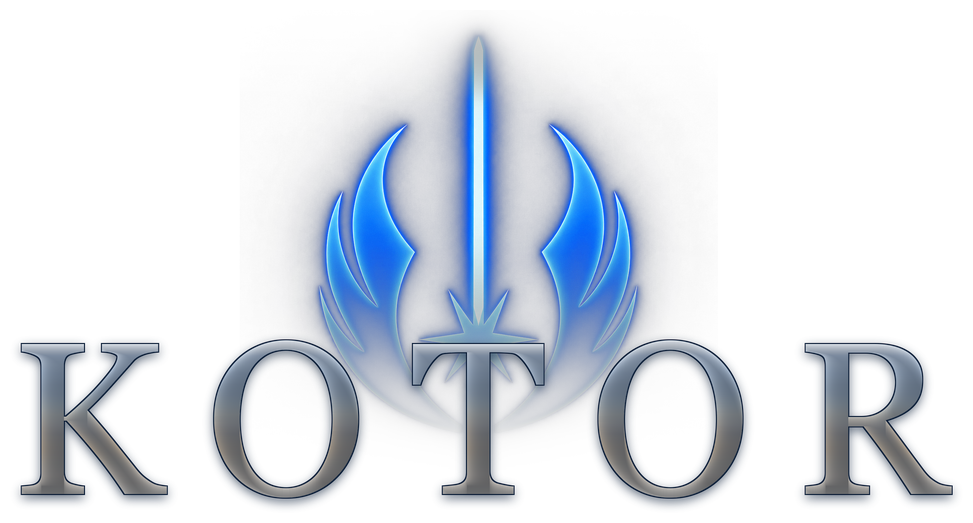
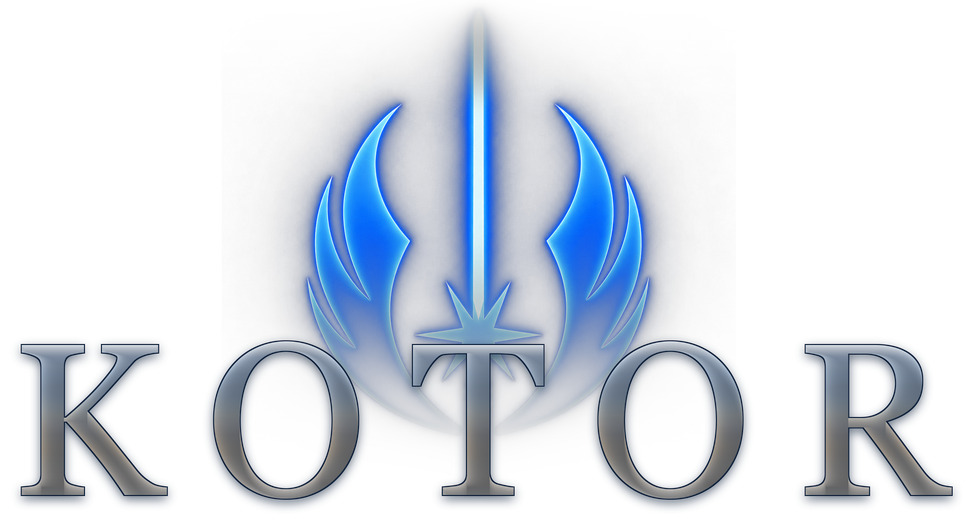
Widen the crest to 40% over the reference
CREST_WIDTH_RATIO 3.19 -> 3.43, i.e. the reference's measured 2.45 plus 40%.
Verified on the render: widest crest row 353px against 249px at 2.45, a factor of
1.42.

diff --git a/tools/build_brand_image.py b/tools/build_brand_image.py
@@ -51,8 +51,8 @@ FONT = Path(r"C:\Windows\Fonts\georgia.ttf")
 
 CAP = 150                     # cap height of the rendered wordmark, in output pixels
 TRACKING_RATIO = 0.297        # measured: 17.2px tracking at 58px cap
-CREST_WIDTH_RATIO = 3.19      # 2.45 is the measured reference width (142px at 58px cap);
-                              # 3.19 is that +30%. Height follows, since the aspect is fixed,
+CREST_WIDTH_RATIO = 3.43      # 2.45 is the measured reference width (142px at 58px cap);
+                              # 3.43 is that +40%. Height follows, since the aspect is fixed,
                               # and the crest grows upward because it is anchored by its wing
                               # line rather than its bounding box.
 # Measured: the crest's wings fade out just above the cap line (-0.03 cap), while
